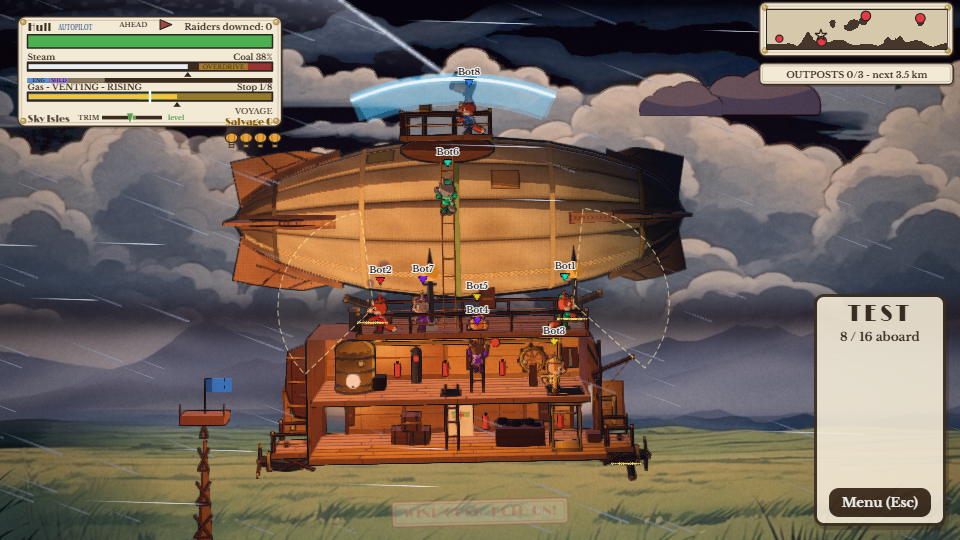
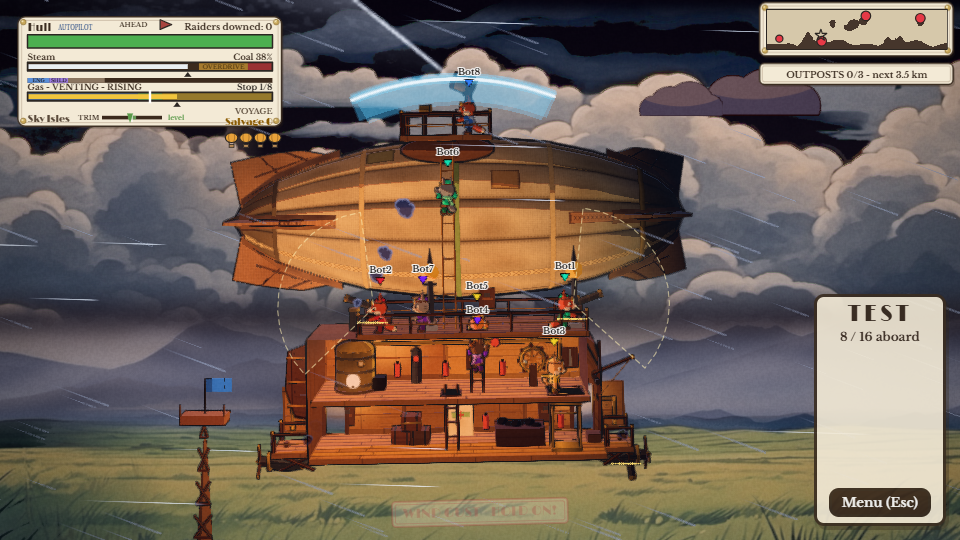
A6: contact shadow under each ship, flat gouache smoke, lava falloff
- contactShadow.js: one instanced mesh of slices that follow the rock top or sea below each ship, fading with height; ?look=nocontact
- particles.js: smoke and steam are opaque flat puffs (light crescent, ink rim), fewer and bigger, 8 fps growth, alpha only in the last 15%; ?look=nogouache; explosion smoke colour bug fixed
- weatherWorld.js and config: dimmer far and middle lava, calmer crack cores and vent pools
- fixtures re-captured; 3D.md section 25

diff --git a/public/modules/view3d/particles.js b/public/modules/view3d/particles.js
@@ -18,7 +18,7 @@
 //   particles.flash(x, y, z, size, color) / ring(x, y, z, size, color, life) / muzzle(x, y, z, angle, size, color)
 //   particles.sprite(kind, ...)                   an immediate quad for ONE frame (flames that sit on a deck, shell tracers): see below.
 //   particles.setTier(tier) / setView(cx, cy, halfW, halfH) / setAmbient(color, night) / begin() / update(dt, t) / stats() / clear()
-import { THREE, gradientMap, rimify } from './style.js';
+import { THREE, gradientMap, rimify, look } from './style.js';
 import { getTrimSheet, TRIM } from './textures.js';
 import { config } from '../../config.js';
 
@@ -69,9 +69,35 @@ const VERT = /* glsl */`
     gl_Position = projectionMatrix * viewMatrix * vec4( wp, 1.0 );
   }
 `;
+// A6 GOUACHE SMOKE: a puff is a union of five circles (the seed mirrors it and nudges the bumps), drawn FLAT: an opaque core, ONE lighter crescent along the top edge (the shape shifted down and cut away
+// from itself), and a thin dark rim (never thinner than about a pixel and a half). Nothing is soft but the one-pixel edge. The CPU keeps the alpha at 1 until the last 15% of the puff's life.
+const GOUACHE_GLSL = /* glsl */`
+  float puffD( vec2 p, float s ) { // signed distance to the puff (negative inside); p in -1..1, the puff fills about 0.75 of that
+    float m = s < 0.5 ? 1.0 : -1.0, k = fract( s * 7.0 );
+    float d = length( p - vec2( 0.0, -0.04 ) ) - 0.52;
+    d = min( d, length( p - vec2( 0.30 * m, 0.16 + 0.08 * k ) ) - ( 0.34 + 0.06 * k ) );
+    d = min( d, length( p - vec2( -0.30 * m, 0.14 - 0.06 * k ) ) - 0.30 );
+    d = min( d, length( p - vec2( 0.04 * m, 0.34 ) ) - ( 0.28 + 0.05 * k ) );
+    d = min( d, length( p - vec2( -0.12 * m, -0.30 ) ) - 0.34 );
+    return d;
+  }
+  vec4 gouache( vec2 p, vec3 rgb, float steam, float seed ) { // rgb = the core colour (already lit by the place); returns colour + coverage
+    float d = puffD( p, seed ), aa = fwidth( d ) * 0.75 + 0.002;
+    float cover = 1.0 - smoothstep( -aa, aa, d );
+    float rimW = max( 0.055, fwidth( d ) * 1.6 );
+    float inside = 1.0 - smoothstep( -rimW - aa, -rimW + aa, d ); // 1 on the rim band, 0 inside it
+    float cres = ( 1.0 - smoothstep( -aa, aa, puffD( p + vec2( 0.05, 0.17 ), seed ) ) ); // 1 where the shifted puff covers, 0 where it does not: the top crescent is the 0 side
+    vec3 core = mix( rgb + vec3( 0.015 ), rgb * 1.04 + vec3( 0.05 ), steam );
+    vec3 lit = rgb * ( 1.3 + 0.1 * steam ) + vec3( 0.075 );
+    vec3 col = mix( lit, core, cres );
+    col = mix( col, rgb * mix( 0.3, 0.58, steam ), inside );
+    return vec4( col, cover );
+  }
+`;
 const FRAG = /* glsl */`
-  uniform sampler2D tSheet; uniform vec4 uFire; uniform vec4 uSmoke;
+  uniform sampler2D tSheet; uniform vec4 uFire; uniform vec4 uSmoke; uniform float uGou;
   varying vec2 vUv; varying vec4 vCol; varying float vKind; varying float vFrame; varying float vStreak; varying float vSeed;
+  ${GOUACHE_GLSL}
   void main() {
     vec3 rgb = vCol.rgb; float a = 0.0, addk = 0.0;
     vec2 p = ( vUv - 0.5 ) * 2.0; float r = length( p );
@@ -79,7 +105,10 @@ const FRAG = /* glsl */`
       vec2 uv = vec2( uFire.x + vFrame * uFire.w + vUv.x * uFire.z, uFire.y - ( 1.0 - vUv.y ) * uFire.z );
       vec4 tx = texture2D( tSheet, uv );
       rgb *= tx.rgb; a = tx.a * vCol.a; addk = 0.5;
-    } else if ( vKind < 1.5 || ( vKind > 5.5 && vKind < 6.5 ) ) { // smoke and steam: the painted soft disc
+    } else if ( uGou > 0.5 && ( vKind < 1.5 || ( vKind > 5.5 && vKind < 6.5 ) ) ) { // A6: smoke and steam as flat gouache puffs (an opaque core, a light crescent, a thin dark rim)
+      vec4 gq = gouache( p, rgb, vKind > 5.5 ? 1.0 : 0.0, vSeed );
+      rgb = gq.rgb; a = gq.a * vCol.a;
+    } else if ( vKind < 1.5 || ( vKind > 5.5 && vKind < 6.5 ) ) { // smoke and steam: the painted soft disc (?look=nogouache keeps this)
       vec2 uv = vec2( uSmoke.x + vUv.x * uSmoke.z, uSmoke.y - ( 1.0 - vUv.y ) * uSmoke.z );
       vec4 tx = texture2D( tSheet, uv );
       rgb *= tx.rgb; a = tx.a * vCol.a * ( 1.0 - smoothstep( 0.42, 0.84, r ) ); // (the painted disc's hard rim is softened)
@@ -113,12 +142,13 @@ const FRAG = /* glsl */`
     #include <colorspace_fragment>
   }
 `;
+const uGouache = { value: 1 }; // A6: 1 = flat gouache smoke (look.gouache), 0 = the old soft translucent discs
 const makeMaterial = (sheet, order, depthTest) => {
   const S = 2048, f = TRIM.fire0, sm = TRIM.smoke;
   const m = new THREE.ShaderMaterial({
     vertexShader: VERT, fragmentShader: FRAG, transparent: true, depthWrite: false, depthTest, side: THREE.DoubleSide,
     blending: THREE.CustomBlending, blendEquation: THREE.AddEquation, blendSrc: THREE.OneFactor, blendDst: THREE.OneMinusSrcAlphaFactor, blendSrcAlpha: THREE.OneFactor, blendDstAlpha: THREE.OneMinusSrcAlphaFactor,
-    uniforms: { tSheet: { value: sheet }, uFire: { value: new THREE.Vector4((f.x + 1) / S, 1 - (f.y + 1) / S, 254 / S, 256 / S) }, uSmoke: { value: new THREE.Vector4((sm.x + 1) / S, 1 - (sm.y + 1) / S, 254 / S, 0) } },
+    uniforms: { uGou: uGouache, tSheet: { value: sheet }, uFire: { value: new THREE.Vector4((f.x + 1) / S, 1 - (f.y + 1) / S, 254 / S, 256 / S) }, uSmoke: { value: new THREE.Vector4((sm.x + 1) / S, 1 - (sm.y + 1) / S, 254 / S, 0) } },
   });
   m.fog = false;
   m.userData.order = order;
@@ -149,6 +179,7 @@ export function createParticles(scene) {
   const pool = new Float32Array(MAXN * ST);
   let n = 0, cap = (V3().CAP || {}).medium || 800, capS = (V3().SPLINTERS || {}).medium || 90, rate = 1, trails = true;
   let dropped = 0, spawned = 0;
+  const thin = {}; // A6: the running share of each smoke kind (see spawn)
   const view = { on: false, cx: 0, cy: 0, hw: 0, hh: 0 };
   const amb = [0.8, 0.8, 0.8];
   let night = 0, tNow = 0;
@@ -231,9 +262,18 @@ export function createParticles(scene) {
     if (n >= cap) { dropped++; return false; }
     if ((kd === KIND.smoke || kd === KIND.steam) && n >= cap * 0.82) { dropped++; return false; }
     if (kd === KIND.spark && n >= cap * 0.94) { dropped++; return false; }
+    // A6: gouache smoke is FEWER and BIGGER: a share of the puffs is dropped (an even every-other-one, so a steady column stays steady) and the rest are drawn bigger (config.VFX3D.GOUACHE.KINDS)
+    let size = o.size != null ? pick(o.size) : pick(K.size);
+    let gk = null;
+    if ((kd === KIND.smoke || kd === KIND.steam) && look.gouache !== false && !o.plain) {
+      const G = V3().GOUACHE || {};
+      gk = (G.KINDS || {})[kindName] || null;
+      if (gk && size < (G.SMALL || 26)) gk = { rate: 1, size: G.SMALL_SIZE || 1.3 }; // (a shell's trail, an exhaust puff, a vent's hiss: all of them, only a little bigger, or they turn into a row of beads)
+      if (gk && gk.rate < 1) { const a = (thin[kindName] || 0) + gk.rate; if (a < 1) { thin[kindName] = a; return false; } thin[kindName] = a - 1; }
+    }
     const i = n * ST;
     const life = o.life != null ? pick(o.life) : pick(K.life);
-    const size = o.size != null ? pick(o.size) : pick(K.size);
+    if (gk && gk.size) size = Math.min(size * (gk.size > 1 ? 1 + (gk.size - 1) * clamp(1.5 - size / 140, 0.3, 1) : gk.size), (V3().GOUACHE || {}).MAX || 200); // (bigger, but the already big ones (an explosion's, a wreck's) only a little: x1.6 up to 70 units, x1.34 at 130, x1.18 from 210; and never more than MAX across)
     const grow = o.size1 != null ? o.size1 : K.grow;
     const speed = o.speed != null ? pick(o.speed) : pick(K.speed);
     const dir = o.dir != null ? o.dir : Math.PI / 2, spread = o.spread != null ? o.spread : Math.PI;
@@ -248,6 +288,7 @@ export function createParticles(scene) {
     pool[i + VZ] = (o.vz || 0) + (o.zv ? (rnd() * 2 - 1) * o.zv : 0);
     pool[i + AGE] = 0; pool[i + LIFE] = Math.max(0.02, life);
     pool[i + S0] = size; pool[i + S1] = size * (kd === KIND.smoke || kd === KIND.steam ? grow : kd === KIND.fire ? grow : kd === KIND.flash || kd === KIND.ring || kd === KIND.muzzle ? grow : grow);
+    if (gk) pool[i + S1] = Math.max(size, Math.min(pool[i + S1], (V3().GOUACHE || {}).MAX_END || 340)); // (A6: an opaque puff must not swell into a continent)
     pool[i + AY] = o.ay != null ? o.ay : K.ay;
     pool[i + DRAG] = o.drag != null ? o.drag : K.drag;
     pool[i + KD] = kd; pool[i + SEED] = rnd();
@@ -282,7 +323,7 @@ export function createParticles(scene) {
     P.burst('ball', x, y, z, Math.round(3 + 2.5 * s), { size: [70 * s, 120 * s], size1: 1.9, life: [0.3, 0.52], speed: [0, 90 * s], up: [0, 40], area: 34 * s, drag: 2 }); // (round toon fireballs)
     P.burst('fire', x, y, z, Math.round(2 + 2 * s), { size: [60 * s, 100 * s], life: [0.4, 0.7], speed: [10, 80], up: [60, 160], area: 28 * s, drag: 1.2 }); // (a few tongues rising out of it)
     P.burst('spark', x, y, z + 10, Math.round(10 + 10 * s), { speed: [200, 560 * Math.sqrt(s)], life: [0.35, 0.85], size: [5, 9] });
-    P.burst('smoke', x, y, z - 10, Math.round(3 + 3 * s), { size: [70 * s, 120 * s], life: [1.4, 2.6], color: o.smoke || '#3e3a3c', warm: 0.9, speed: [10, 70 * s], up: [30, 80] });
+    P.burst('smoke', x, y, z - 10, Math.round(3 + 3 * s), { size: [70 * s, 120 * s], life: [1.4, 2.6], color: typeof o.smoke === 'string' ? o.smoke : '#3e3a3c', warm: 0.9, speed: [10, 70 * s], up: [30, 80] });
     P.ring(x, y, z + 20, 180 * s, '#ffd23f');
     if (o.wood) P.splinters(x, y, z, Math.round(6 + 6 * s), { kind: 'wood', speed: [180, 480], up: 160 });
     if (s >= 1.6) P.hitFlash(x, y, z, 260 * s);
@@ -339,6 +380,8 @@ export function createParticles(scene) {
     let na = 0, nb = 0;
     const wa = A.arr, wb = B.arr;
     const step8 = Math.floor(t * 8);
+    const gou = look.gouache !== false; // (A6: flat gouache smoke; the shader's switch follows)
+    uGouache.value = gou ? 1 : 0;
     for (let k = 0; k < n; k++) {
       const i = k * ST;
       const age = (pool[i + AGE] += dt), life = pool[i + LIFE];
@@ -367,11 +410,15 @@ export function createParticles(scene) {
         const h = hdr * (1 - 0.25 * u);
         r *= h; g *= h * (1 - 0.3 * u); b *= h * (1 - 0.6 * u);
       } else if (kd === KIND.smoke || kd === KIND.steam) {
-        a = a0 * Math.min(1, u / 0.1) * (u < 0.5 ? 1 : (1 - u) / 0.5);
-        const w = pool[i + WARM] * (1 - u) * (1 - u);
+        if (gou) { // A6: gouache: opaque (an emitter's alpha below ~0.65 is a lighter puff) until the last 15% of its life; growth in 8 fps steps; never turned (the light crescent stays on top)
+          const G = V3().GOUACHE || {}, fadeAt = G.FADE_AT != null ? G.FADE_AT : 0.85;
+          a = clamp(a0 * (G.OPAQUE != null ? G.OPAQUE : 1.5), 0, 1) * Math.min(1, u / 0.04) * (u < fadeAt ? 1 : (1 - u) / (1 - fadeAt));
+          size = s0 + (s1 - s0) * clamp(Math.floor(age * 8) / 8 / life, 0, 1);
+        } else a = a0 * Math.min(1, u / 0.1) * (u < 0.5 ? 1 : (1 - u) / 0.5);
+        const w = pool[i + WARM] * (1 - u) * (1 - u) * (gou ? ((V3().GOUACHE || {}).WARM ?? 0.3) * (1 - u) : 1); // (an opaque puff would turn solid orange: the fire's light is a third as strong on it and is gone sooner)
         r = r * amb[0] * (1 - w) + 1.5 * w; g = g * amb[1] * (1 - w) + 0.6 * w; b = b * amb[2] * (1 - w) + 0.18 * w; // (fresh smoke is lit orange by the fire it came from)
         if (kd === KIND.steam) { r *= 1.1; g *= 1.1; b *= 1.1; }
-        const ro = pool[i + ROT] + seed * 0; dx = Math.cos(ro); dy = Math.sin(ro);
+        if (!gou) { const ro = pool[i + ROT] + seed * 0; dx = Math.cos(ro); dy = Math.sin(ro); }
       } else if (kd === KIND.spark) {
         const sp2 = Math.hypot(vx, vy), st = pool[i + STRETCH];
         a = a0 * (1 - u * u);

diff --git a/public/modules/view3d/contactShadow.js b/public/modules/view3d/contactShadow.js
@@ -1,0 +1,125 @@
+// A6 THE CONTACT SHADOW (3D.md section 25). In open sky the ship cast nothing readable on the rock or the sea below, so she floated like a sticker. This puts a soft dark ellipse
+// under every ship, on the nearest rock top or water surface straight below her, sized by her length and fading with her height above it (the simulation's own altitude).
+//
+// HOW: once a frame (a few array reads each, no mesh raycast: the rock IS the 2D game's map, and the terrain chunks are built from it) a column march down the map's cells (maps.js floorBelow) finds the
+// surface under each of COLS slices of the ellipse's width; a slice with nothing below it (or beyond FADE) is simply not drawn, so the shadow never spills off a cliff into empty sky. All the slices of
+// all the ships are ONE InstancedMesh (1 draw call, depth tested, no shadow map): a flat quad per slice lying on its own surface height, the ellipse itself is made in the fragment shader from the
+// slice's place in it. The slices touch but never overlap (a soft alpha would double up). The sea keeps its sun shadow from the shadow map; over water the ellipse is lighter so they do not double up.
+// Fixed to the world and to the ship: nothing moves on its own, nothing here is a function of time.
+import { THREE, look } from './style.js';
+import { floorBelow } from '../host/maps.js';
+import { Z_FRONT_OPEN } from './terrain.js';
+import { config } from '../../config.js';
+
+const clamp = (v, a, b) => (v < a ? a : v > b ? b : v);
+const fin = Number.isFinite;
+
+const VERT = /* glsl */`
+  attribute vec4 aPos; attribute vec4 aShape; attribute vec4 aRight; // aRight.x = the surface height at the slice's right edge (aPos.y is the left one); aPos = slice centre x, surface y, z, slice width;  aShape = ellipse half-length, half-depth, alpha, the ellipse's centre x
+  varying vec2 vE; varying float vA;
+  void main() {
+    float wx = aPos.x + position.x * aPos.w;
+    float wz = aPos.z + position.z * aShape.y * 2.0;
+    vE = vec2( ( wx - aShape.w ) / max( aShape.x, 1.0 ), position.z * 2.0 );
+    vA = aShape.z;
+    float wy = mix( aPos.y, aRight.x, position.x + 0.5 );
+    gl_Position = projectionMatrix * viewMatrix * vec4( wx, wy, wz, 1.0 );
+  }
+`;
+const FRAG = /* glsl */`
+  uniform vec3 uColor; uniform vec2 uSoft; // uSoft = where the soft edge starts (share of the radius), and a step count (0 = smooth)
+  varying vec2 vE; varying float vA;
+  void main() {
+    float r = length( vE );
+    float k = 1.0 - smoothstep( uSoft.x, 1.0, r );
+    float a = vA * k;
+    if ( a < 0.01 ) discard;
+    gl_FragColor = vec4( uColor, a );
+    #include <colorspace_fragment>
+  }
+`;
+
+export function createContactShadow(parent, state, models) {
+  const C = () => (config.LOOK3D && config.LOOK3D.CONTACT) || {};
+  const K0 = C();
+  const COLS = clamp((K0.COLS | 0) || 16, 4, 40), MAXS = clamp((K0.SHIPS | 0) || 6, 1, 12);
+  const N = COLS * MAXS, IN = 12;
+  const edge = new Array(COLS + 1);
+  const arr = new Float32Array(N * IN);
+  const buf = new THREE.InstancedInterleavedBuffer(arr, IN, 1);
+  buf.setUsage(THREE.DynamicDrawUsage);
+  const g = new THREE.InstancedBufferGeometry();
+  g.setAttribute('position', new THREE.BufferAttribute(new Float32Array([-0.5, 0, -0.5, 0.5, 0, -0.5, 0.5, 0, 0.5, -0.5, 0, 0.5]), 3));
+  g.setIndex([0, 2, 1, 0, 3, 2]);
+  g.setAttribute('aPos', new THREE.InterleavedBufferAttribute(buf, 4, 0));
+  g.setAttribute('aShape', new THREE.InterleavedBufferAttribute(buf, 4, 4));
+  g.setAttribute('aRight', new THREE.InterleavedBufferAttribute(buf, 4, 8));
+  g.instanceCount = 0;
+  const mat = new THREE.ShaderMaterial({
+    vertexShader: VERT, fragmentShader: FRAG, transparent: true, depthWrite: false, depthTest: true, side: THREE.DoubleSide,
+    polygonOffset: true, polygonOffsetFactor: -2, polygonOffsetUnits: -2,
+    uniforms: { uColor: { value: new THREE.Color(K0.COLOR || '#1c1a2c') }, uSoft: { value: new THREE.Vector2(K0.SOFT != null ? K0.SOFT : 0.4, 0) } },
+  });
+  mat.fog = false; mat.toneMapped = false;
+  const mesh = new THREE.Mesh(g, mat);
+  mesh.frustumCulled = false; mesh.renderOrder = 4; mesh.name = 'contactShadow'; mesh.visible = false;
+  parent.add(mesh);
+  const stats = { ships: 0, slices: 0 };
+
+  function update() {
+    const K = C();
+    let n = 0, ships = 0;
+    const map = state.course && state.course.map;
+    if (look.contact !== false && map && map.solid && K.ALPHA !== 0) {
+      const env = state.env || {}, seaGame = fin(env.seaY) ? env.seaY : null; // (the sea's surface, the game's y: down)
+      const open = !!map.open, lift = K.LIFT != null ? K.LIFT : 5, fade = Math.max(100, K.FADE || 1400), maxDrop = Math.min(fade, (map.CELL || 60) * 58);
+      const rz = (K.DEPTH || 300) * 0.5, zc = open ? Z_FRONT_OPEN - 30 - rz * 0.9 : 0; // (open sky: the rock's top face runs back from just behind the ships; in a cave the tunnel floor runs under her)
+      for (const sh of state.ships) {
+        if (ships >= MAXS) break;
+        const e = models.get(sh.id), pose = sh.pose, L = sh.layout, b = L && L.bounds;
+        if (!e || !pose || !b || !fin(pose.x) || !fin(pose.y)) continue;
+        if ((sh.ctx && sh.ctx.wreck) || !e.model.root.visible) continue; // (a hull breaking up casts nothing)
+        const f = pose.f === -1 ? -1 : 1, pv = fin(e.model.pv) ? e.model.pv : 0;
+        const len = Math.max(200, b.x1 - b.x0), mid = (b.x0 + b.x1) * 0.5;
+        const cx = pose.x + pv + f * (mid - pv), keel = pose.y + b.y1; // (the game's y, down: the keel is the lowest point of her bounds)
+        const turn = pose.turn > 0 ? Math.max(0.35, Math.abs(Math.cos(Math.PI * pose.turn))) : 1; // (end-on in a come about: a narrower shadow)
+        const rx0 = len * 0.5 * (K.LEN || 0.82) * turn;
+        const surf = (x) => {
+          let y = Infinity, sea = false;
+          const fy = floorBelow(map, x, keel - 20);
+          if (fin(fy) && fy < map.H * map.CELL - 1 && fy - keel < maxDrop) y = fy;
+          if (seaGame != null && seaGame > keel - 40 && seaGame - keel < maxDrop && seaGame < y) { y = seaGame; sea = true; }
+          return { y, sea };
+        };
+        const mid0 = surf(cx);
+        const hMid = mid0.y === Infinity ? fade : Math.max(0, mid0.y - keel);
+        const grow = 1 + (K.GROW != null ? K.GROW : 0.35) * clamp(hMid / fade, 0, 1);
+        const rx = rx0 * grow, ww = (rx * 2) / COLS;
+        for (let i = 0; i <= COLS; i++) edge[i] = surf(cx - rx + i * ww); // (the surface under each slice's two edges: a slice is a flat strip that follows the slope, never a step that would float off a ridge)
+        let any = 0;
+        for (let i = 0; i < COLS; i++) {
+          const l = edge[i], r = edge[i + 1];
+          if (l.y === Infinity || r.y === Infinity || l.sea !== r.sea || Math.abs(l.y - r.y) > ww * 1.1) continue; // (nothing below, or a cliff between: not drawn)
+          const h = Math.max(0, (l.y + r.y) * 0.5 - keel), hk = 1 - clamp(h / fade, 0, 1);
+          const a = (l.sea ? (K.SEA_ALPHA != null ? K.SEA_ALPHA : 0.26) : (K.ALPHA != null ? K.ALPHA : 0.4)) * hk;
+          if (a < 0.015) continue;
+          const o = n * IN;
+          arr[o] = cx - rx + (i + 0.5) * ww; arr[o + 1] = -l.y + lift; arr[o + 2] = l.sea ? 0 : zc; arr[o + 3] = ww;
+          arr[o + 4] = rx; arr[o + 5] = l.sea ? rz * 0.8 : rz; arr[o + 6] = a; arr[o + 7] = cx;
+          arr[o + 8] = -r.y + lift; // (the strip's right edge height)
+          n++; any++;
+        }
+        if (any) ships++;
+      }
+    }
+    g.instanceCount = n;
+    mesh.visible = n > 0;
+    if (n > 0) {
+      buf.clearUpdateRanges && buf.clearUpdateRanges();
+      if (buf.addUpdateRange) buf.addUpdateRange(0, n * IN);
+      buf.needsUpdate = true;
+    }
+    stats.ships = ships; stats.slices = n;
+  }
+  return { mesh, stats, update, dispose() { parent.remove(mesh); g.dispose(); mat.dispose(); } };
+}

diff --git a/public/config.js b/public/config.js
@@ -2415,6 +2415,10 @@ export const config = {
     TOON: { STEPS: 2, SHADOW: 0.4, MID: 0.8 },
     INK: { REF: 2200, MIN: 0.8, MAX: 3, MIN_PX: 1.5, TERRAIN: 9 },
     SHADOW: { RADIUS: 1, NORMAL_BIAS: 6, BIAS: -0.0008 },
+    // A6 CONTACT: the soft shadow under every ship on the rock top or the sea straight below her (view3d/contactShadow.js): ALPHA on rock, SEA_ALPHA over water (the sun's shadow is there already), COLOR, SOFT = where the
+    //   soft edge starts (share of the radius), LEN = its length as a share of the ship's, DEPTH = how deep it lies (world units), GROW = how much wider it gets at FADE height, FADE = the height above the surface at which
+    //   it is gone, COLS = slices across (a slice with nothing under it is not drawn, so it never spills off a cliff), LIFT = above the surface, SHIPS = most ships.
+    CONTACT: { ALPHA: 0.6, SEA_ALPHA: 0.34, COLOR: '#1c1a2c', SOFT: 0.3, LEN: 0.82, DEPTH: 340, GROW: 0.35, FADE: 1400, COLS: 16, LIFT: 5, SHIPS: 6 },
     FRONT_CLOUDS: { SHARE: 0.5, SIZE: [200, 380], ALPHA: 0.2, LOW: [-0.1, 0.45], PAD: 0.3 },
     skyisles: { dark: { cave: 0.68, hemi: 1.0, sky: '#34447a', ground: '#141a2c', key: 0.04 }, cap: { color: '#8fa65e', amount: 0.9 }, clouds: { n: 6, front: 0, alpha: 1, tint: '#fff4e0' }, strips: { color: '#dce8ec', far: { haze: 0.35, sat: 0.75 }, mid: { haze: 0.15, sat: 0.9 } }, exposure: 1.15, key: { color: '#fff0d0', strength: 1, shadows: true }, hemi: { sky: '#e8f1f6', ground: '#b49a78', strength: 1 }, haze: '#dce8ec', hazeAmt: 0.05, grade: { shadow: '#5a6c9c', shadowAmt: 0.12, high: '#ffe8c0', highAmt: 0.1, sat: 1.04, contrast: 0.1, lift: 0.01 }, bloom: 0.55, vignette: 0.16, rim: { color: '#ffd9a8', amount: 0.22 } },
     frost: { dark: { cave: 0.66, hemi: 1.0, sky: '#3a5488', ground: '#1a2438', key: 0.04 }, cap: { color: '#f2f7ff', amount: 1 }, clouds: { n: 5, front: 0, alpha: 1, tint: '#f4f8ff' }, strips: { color: '#cfdcef', far: { haze: 0.35, sat: 0.75 }, mid: { haze: 0.15, sat: 0.9 } }, exposure: 1.1, key: { color: '#fff6e6', strength: 0.95, shadows: true }, hemi: { sky: '#e6f0fa', ground: '#9fb0c4', strength: 1.05 }, hazeAmt: 0.07, grade: { shadow: '#4a64a8', shadowAmt: 0.16, high: '#fff4e0', highAmt: 0.06, sat: 0.96, contrast: 0.08, lift: 0.01 }, bloom: 0.5, vignette: 0.15, rim: { color: '#e8f2ff', amount: 0.22 } },
@@ -2465,7 +2469,7 @@ export const config = {
       CRUST: { ICE: '#b5e0f6', SNOW: '#ffffff', SHADE: '#8fc0de', SPARKLE: 1 },
       // WP15 LAVA: a crust of dark cooled plates (cellular, SCALE world units across, CRUST colour) with glowing cracks between (CRACK = their width as a share of a plate), sliding at SPEED (constant, slow). VENT_STEP / VENT_SHARE: a sparse fixed
       // grid of hot spots that widen the cracks and open molten pools. DROP: the sheet lies this far under the sim's lava line (less lava on screen); NEAR: the brightness of the foreground (the sheet sinks into the dark from NEAR_Z toward the viewer).
-      LAVA: { HDR: 1.12, SPEED: 9, WALL: 1, WALL_ALPHA: 0.4, SMOKE: 2.2, VENT: 1.2, PLUME: 0.5, SCALE: 240, CRACK: 0.06, CRUST: '#2b110c', VENT_STEP: 1700, VENT_SHARE: 0.5, DROP: 150, NEAR: 0.45, NEAR_Z: 650, FAR_DIM: 0.25, HAZE: 0.55, HAZE_COLOR: '#3a1a1c' },
+      LAVA: { HDR: 1.0, SPEED: 9, WALL: 1, WALL_ALPHA: 0.4, SMOKE: 2.2, VENT: 1.2, PLUME: 0.5, SCALE: 240, CRACK: 0.06, CRUST: '#2b110c', VENT_STEP: 1700, VENT_SHARE: 0.5, DROP: 150, NEAR: 0.45, NEAR_Z: 650, FAR_DIM: 0.42, HAZE: 0.55, HAZE_COLOR: '#3a1a1c' },
       SPOUT: { COLORS: ['#a7bccb', '#3f6178', '#e9f4fa'], STEP: 0.2, SIDES: 24, RINGS: 16 },
       RAFT: { WOOD: ['#7a5a3a', '#9a7248'], COATS: ['#d65a4a', '#e8a23c'], SKIN: '#e8d3b0' },
       AURORA: { COLORS: ['#3df2b4', '#7a5cff', '#ff5cc8'], ALPHA: 0.5, DRIFT: 8, HEIGHT: 2600 },
@@ -2514,6 +2518,9 @@ export const config = {
     WOOD: ['#d9b98a', '#b98a56', '#8f6338', '#e8d2a6', '#6e4a2a'],
     TRACER: '#ffb838', TRACER_PRIMED: '#ff9a2e', BULLET: '#ff5a7a', FLAK: '#ff9a4a', LIGHTNING: '#9fd8ff',
     SMOKE: { fire: '#5a5454', big: '#2f2c2e', trail: '#b9b3ad', exhaust: '#8f8f8f', steam: '#f4f7f7' },
+    // A6 GOUACHE SMOKE (particles.js): smoke, steam and dust are flat painted puffs with an opaque core, one light crescent on top and a thin dark rim, opaque until the last (1 - FADE_AT) of their life. An emitter's own alpha
+    //   is lifted by OPAQUE (x1.5, so 0.7 = fully opaque, 0.5 = a lighter puff). WARM = how much of the fire light an opaque puff keeps; MAX / MAX_END = the biggest start / end size (world units); puffs smaller than SMALL (trails, exhaust, hisses) are all kept and only SMALL_SIZE times bigger. KINDS: per kind, RATE = the share of puffs kept (an even every-other-one) and SIZE = the multiplier on their size (fewer and bigger). ?look=nogouache = the old soft discs.
+    GOUACHE: { OPAQUE: 1.5, FADE_AT: 0.85, WARM: 0.3, MAX: 200, MAX_END: 340, SMALL: 26, SMALL_SIZE: 1.3, KINDS: { smoke: { rate: 0.5, size: 1.6 }, steam: { rate: 0.5, size: 1.6 }, dust: { rate: 0.75, size: 1.25 } } },
     HITSTOP_AT: 190, // an impact ring this big (world units) or more gets the one-frame bright flash
   },
 

diff --git a/public/modules/view3d/index.js b/public/modules/view3d/index.js
@@ -19,6 +19,7 @@ import { createWorldObjects } from './worldObjects.js';
 import { createTeamFlags } from './teamFlag.js'; // (WP15: the Versus team pennants on the masts)
 import { createThreatGlows } from './glows3d.js';
 import { createWreck3D } from './wreck3d.js';
+import { createContactShadow } from './contactShadow.js'; // A6: the soft shadow under each ship on the rock or the sea below
 import { createScenery } from './scenery.js';
 import { createVfx } from './vfx.js';
 import { createDestruction } from './destruction.js';
@@ -161,6 +162,7 @@ export function createView3D({ canvas, state, settings = {}, onModels = null }) 
   // ---- ship models and the crew aboard ---------------------------------------------------------------------------------------------------------------------------------
   const models = new Map(); // ship id -> { model, ver }
   V.models = models;
+  const contact = createContactShadow(worldRoot, state, models); V.contact = contact; // (A6)
   // WP10: the searchlight beams (a pass of their own that reads the scene's depth), the light pools where they land and the lit-target rim (beams.js). If it cannot be made the old cones stay.
   let beams = null;
   try { beams = createBeams({ scene, post, world, state, models }); } catch (e) { console.warn('view3d beams off', e); look.beam = false; }
@@ -424,6 +426,7 @@ export function createView3D({ canvas, state, settings = {}, onModels = null }) 
     if (beams) { try { beams.updateLit(camera, state, world.night); } catch (e) { logOnce('lit', e); } } // (which targets a manned beam holds: the toon shader gives them a warm rim)
     try { destruction.process(); } catch (e) { logOnce('destruction', e); } // (the break-off notes are read BEFORE syncShips rebuilds a ship from her new layout)
     syncShips(t, dt);
+    try { contact.update(); } catch (e) { logOnce('contact', e); } // (A6: after the ships are placed; reads the map and the poses)
     try { teamFlags.update(t, lastView ? lastView.zoom : 1); } catch (e) { logOnce('teamFlags', e); }
     try { damage.update(world.night); } catch (e) { logOnce('damage', e); }
     try { partDamage.update(dt, t, world.night); } catch (e) { logOnce('partDamage', e); }

diff --git a/public/modules/view3d/style.js b/public/modules/view3d/style.js
@@ -18,9 +18,10 @@ export { THREE };
 // low = the Detail: low setting (small things lose their ink shells). The rest are the WP1 look kill-switches (quality.js reads ?look=nobloom,nofog... into them; the dev page has buttons):
 // bloom, lut (the colour grade), grain (paper grain + vignette), fog, rim (the thin warm edge light), lanterns (the lamps' real point lights), post (false = no composer at all),
 // WP3: dark (caves and dark stages go near-black: the lamps and beams light them; false = the old day-lit caves), clouds (the 3D cloud billboards), water (the new toon water: false = the old flat slab), WP4: vfx (the GPU particles: fire, smoke, sparks, splinters; false = the old flame cones and puff balls).
+// A6: contact (the soft shadow under each ship, contactShadow.js), gouache (the opaque flat smoke with a light crescent and an ink rim; false = the old translucent soft discs).
 // A3: strips (the far / mid strips recede into the haze), skyart (the painted Ember sky and the painted cave stone: false = the old gradient and the old cave picture).
 // WP10: beam (the volumetric searchlight beams, light pools and the lit-target rim: false = the old flat cones), lightning (the strike flash + bolt), fungal (the glowing mushrooms and spores).
-export const look = { toon: true, outlines: true, shadows: true, low: false, bloom: true, lut: true, grain: true, fog: true, rim: true, lanterns: true, post: true, dark: true, clouds: true, water: true, vfx: true, glows: true, beam: true, lightning: true, fungal: true, weather: true, strips: true, skyart: true };
+export const look = { toon: true, outlines: true, shadows: true, low: false, bloom: true, lut: true, grain: true, fog: true, rim: true, lanterns: true, post: true, dark: true, clouds: true, water: true, vfx: true, glows: true, beam: true, lightning: true, fungal: true, weather: true, strips: true, skyart: true, contact: true, gouache: true };
 
 // Shared shader numbers (one object, read by every patched material, so changing them needs no recompile): the toon rim light, and what the painted backdrops need to survive tone mapping.
 export const fx = {

diff --git a/public/modules/view3d/weatherWorld.js b/public/modules/view3d/weatherWorld.js
@@ -70,13 +70,13 @@ const LAVA_FRAG = `
       vec3 col = uCrust * ( 0.7 + 0.6 * v.z ); // (each plate a slightly different dark)
       col = mix( col, uDeep * 0.7, rim * 0.85 );
       col = mix( col, uMid, seam );
-      col = mix( col, uHot * 1.25, core );
+      col = mix( col, uHot * 1.15, core );
       float pool = step( 0.72, heat ); // (a vent: a molten pool, hottest in the middle)
-      col = mix( col, mix( uMid * 1.05, uHot * 1.2, step( 0.9, heat ) ), pool );
+      col = mix( col, mix( uMid * 1.0, uHot * 1.04, step( 0.9, heat ) ), pool );
       col *= mix( 1.0, uNear, smoothstep( 0.0, uNearZ, vW.z ) ); // (the foreground sinks into the dark: it is not where the game is played)
       float fa = smoothstep( 0.0, 0.08, vV ); // (it melts into the haze at the far edge)
       // A3: the far lava is a painting that RECEDES: its glow drops by uFarDim past the middle distance, and a dark smoke haze (a static, broken band) lies over the far end of it
-      float farK = 1.0 - smoothstep( 0.25, 0.65, vV );
+      float farK = 1.0 - smoothstep( 0.25, 0.85, vV ); // (A6: the dimming reaches further toward the viewer)
       float smoke = uSmoke * ( 1.0 - smoothstep( 0.02, 0.34, vV ) ) * ( 0.65 + 0.35 * vn( vW.xz / 900.0 + 5.0 ) );
       col = mix( col * ( 1.0 - uFarDim * farK ), uSmokeCol, clamp( smoke, 0.0, 1.0 ) );
       gl_FragColor = vec4( col * uHdr * fa, fa );

diff --git a/public/modules/view3d/quality.js b/public/modules/view3d/quality.js
@@ -22,7 +22,7 @@ export const TIER_NAMES = ['high', 'medium', 'low'];
 export const tierFromLevel = (level) => (level >= 3 ? 'high' : level >= 1 ? 'medium' : 'low');
 
 // The address: ?look=nobloom,nofog  and  ?tier=medium. Returns { tier, flags } and applies the flags to `look`.
-const SWITCHES = ['bloom', 'lut', 'grain', 'fog', 'rim', 'lanterns', 'shadows', 'post', 'outlines', 'dark', 'clouds', 'water', 'vfx', 'glows', 'beam', 'lightning', 'fungal', 'weather', 'strips', 'skyart'];
+const SWITCHES = ['bloom', 'lut', 'grain', 'fog', 'rim', 'lanterns', 'shadows', 'post', 'outlines', 'dark', 'clouds', 'water', 'vfx', 'glows', 'beam', 'lightning', 'fungal', 'weather', 'strips', 'skyart', 'contact', 'gouache'];
 export function readAddress(search) {
   const out = { tier: '', flags: {} };
   try {

diff --git a/3D.md b/3D.md
@@ -606,5 +606,19 @@ The perf governor then starts at that level (High = 3, Medium = 1) and never cli
 
 **Known gaps.** The talons grip the bag's skin but the bag's dent is a squash of the whole envelope (a local dent needs the A4 bag). The wing membranes are cut by grid cells (a hole is a square-ish cell with a charred rim, not a smooth tear). The Drake falling into the lava is drawn in front of the lava sheet (the sheet is one flat plane); the splash and the sinking embers do the work. The finger bones are thin tubes; a dark band, not an ink shell, is the membrane's line. In a dark sky the body is dim unless a searchlight has it, as the Kraken is; the ember cracks, the eyes, the throat and the fire carry the picture.
 
+## 25. A6 notes: contact shadow, gouache smoke, lava falloff (built)
+**Files.** new `view3d/contactShadow.js`, `view3d/particles.js` (the smoke shader and spawn rules), `view3d/weatherWorld.js` (the lava shader), `view3d/index.js` (3 lines: create, `contact.update()` after `syncShips`), `style.js` + `quality.js` (two look switches), `config.LOOK3D.CONTACT`, `config.VFX3D.GOUACHE`, `LOOK3D.WEATHER.LAVA` (HDR, FAR_DIM). No simulation file is touched. Screenshots (outside the repo): `3d-screenshots/a6_before_*` and `a6_after_*` (the contact shadow on rock in Versus, over open ground and over the sea, a deck fire, a wreck falling, the boiler chimney, a cannon volley, an explosion, the Drake's arrival / breath / crawl / death, the Kraken's breach spray, the Ember lava wide). The contact shots' "before" is the same scene with `?look=nocontact` switched on at run time.
+
+1. **Contact shadow.** A soft dark ellipse under every ship, on the nearest rock top or sea surface straight below her. Once a frame, with no mesh raycast (the terrain chunks are built from the 2D map, so the map IS the rock): `floorBelow(map, x, keel)` (maps.js) down each of 17 sample columns across the ellipse, against `state.env.seaY` (the nearer of the two wins). The ellipse is 16 flat slices; each slice is a quad whose left and right edges lie on the surface heights found under them (so it follows a slope and never steps off a ridge), and a slice with nothing below it, or a cliff between its edges, is not drawn (it never spills into empty sky). The ellipse itself (soft edge from `SOFT` 0.3) is made in the fragment shader from each fragment's place in it. Sized by the ship's length (`LEN` 0.82), wider by up to `GROW` 35% with height, faint with height (`ALPHA` 0.6 x (1 - h / `FADE` 1400), h = the keel to the surface from `pose.y`: the sim's own altitude). Open sky: it lies on the rock's top face, which runs back from just behind the ships (z -70); in a cave on the tunnel floor at z 0; over the sea at z 0 and fainter (`SEA_ALPHA` 0.34: the sun's shadow-map shadow is already there; they add up, they do not clash). ONE InstancedMesh for all ships and slices (up to 6 ships x 16), depth-tested, no depth write, polygon offset against z-fighting, renderOrder 4: +1 draw call while a ship has ground or sea below her (measured 83-85 -> 84 in the same Versus scene, Medium), none otherwise. Hidden while a hull is breaking up; narrower through a come about. `?look=nocontact` removes it. Honest limit: at the gameplay camera (ELEV 0.12) a rock top is a thin lip (about 20 px at the normal zoom), so the shadow reads as a darker band along the lip under the ship: it settles her on the ground rather than shouting. Over the lava there is no decal (the lava is a light, not a surface).
+2. **Gouache smoke.** The smoke and steam shader (alpha mesh) draws a puff as a union of five circles (the particle's seed mirrors it and moves the bumps), FLAT: an opaque core, ONE lighter crescent along the top edge (the shape shifted down-left and cut away from itself), and a thin dark rim (0.055 of the half-size, never under 1.6 px: `fwidth`); the one soft thing is the one-pixel edge. Smoke is never turned, so the crescent stays on top; the rim is the core colour x 0.3 (steam: x 0.58, a grey-blue line); steam is the same puff in white. CPU side: the alpha is 1 (an emitter's own alpha x `OPAQUE` 1.5, so 0.7 and up is fully opaque and a trail's 0.5 is a lighter puff) until the last 15% of its life (`FADE_AT` 0.85); the size grows in 8 fps steps (`floor(age * 8) / 8`); fresh smoke is lit by its fire a third as much (`WARM` 0.3, gone sooner: an opaque puff would turn solid orange). FEWER AND BIGGER (`GOUACHE.KINDS`): smoke and steam keep every other puff (an even accumulator, so a steady column stays steady) at x1.6 their size (x1.34 at 130 units, x1.18 from 210, capped at `MAX` 200 start and `MAX_END` 340 end so an explosion's cloud is not a continent); dust keeps 3 of 4 at x1.25; puffs under 26 units (shell trails, engine exhaust, vent hisses) are all kept and only x1.3, or they become a row of beads. The particle caps are unchanged (the pool is the same, it just holds fewer smoke puffs). `?look=nogouache` brings the old translucent discs back (the old shader branch, the old fade, the old spawn). The trim sheet's smoke disc in `textures.js` is not used by the gouache path (the puff is made in the shader, so it stays crisp at any size and every puff is a little different); it is left as it was for the old path.
+   - **Depth.** The alpha mesh still ignores the depth test (WP4's reason stands: a ship's bag and decks would swallow a column rising from a room). Opaque puffs therefore cover what is behind them, which is how they read as smoke in front of the bag; kept on purpose.
+   - **A bug found on the way:** `particles.explosion` passed `smoke: true` (the wreck's) as the puff's colour; `THREE.Color.set(true)` does nothing, so the puffs took whatever colour was parsed last (orange, from the fire). Now a string is used and anything else gets the default dark.
+   - **Checked:** a deck fire (dark puffs with a light crescent over the bag), a wreck falling, the boiler chimney (white steam and dark overdrive smoke), a cannon volley (trails stay small), an explosion, the Drake's breath, crash and death, the Kraken's breach spray (white-grey puffs).
+3. **Lava falloff.** `LAVA.HDR` 1.12 -> 1.0; `FAR_DIM` 0.25 -> 0.42 and the dimming now reaches from `vV` 0.25 to 0.85 (it ended at 0.65), so the far and middle lava sinks into the haze; the hot crack cores 1.25 -> 1.15 and the vents' hot pools 1.2 -> 1.04 (they were the brightest things on the screen). The crust plates and cracks still read under the A3 Ember sky; in the Drake's lair the crawling Drake and the lava no longer fight for the brightest spot.
+
+**Perf (Medium, headless Chrome, same seeded scenes):** draw calls +1 only while a ship has ground or sea below her (the contact mesh); at most 96 slices of 2 triangles; view JS 0.3-0.9 ms as before; the smoke shader costs a few more ALU for the circles, on a mesh that now draws about half as many puffs.
+
+**Gates.** `--check-botsim` byte-identical, `--lint`, `--check-3d-lint` (no sine of time), `--check-enemy3d`, `weather3d-check --only ember`, `creature3d-check --quick` (Kraken and Drake), `light3d-check --quick`, `--check-3d` (fixtures re-captured with `--snapshot-3d --force`). The 8-bot real-time line `models: ... gunship` of `--check-3d` failed on some runs here (the bots shoot the gunship down before the check looks; nothing to do with the view); it passed on others.
+
 ## Next: the art-director review
 Fable reviewed the finished 3D build: see **[ART_REVIEW_3D.md](ART_REVIEW_3D.md)** for the top 10 gaps and packages A1-A9.
